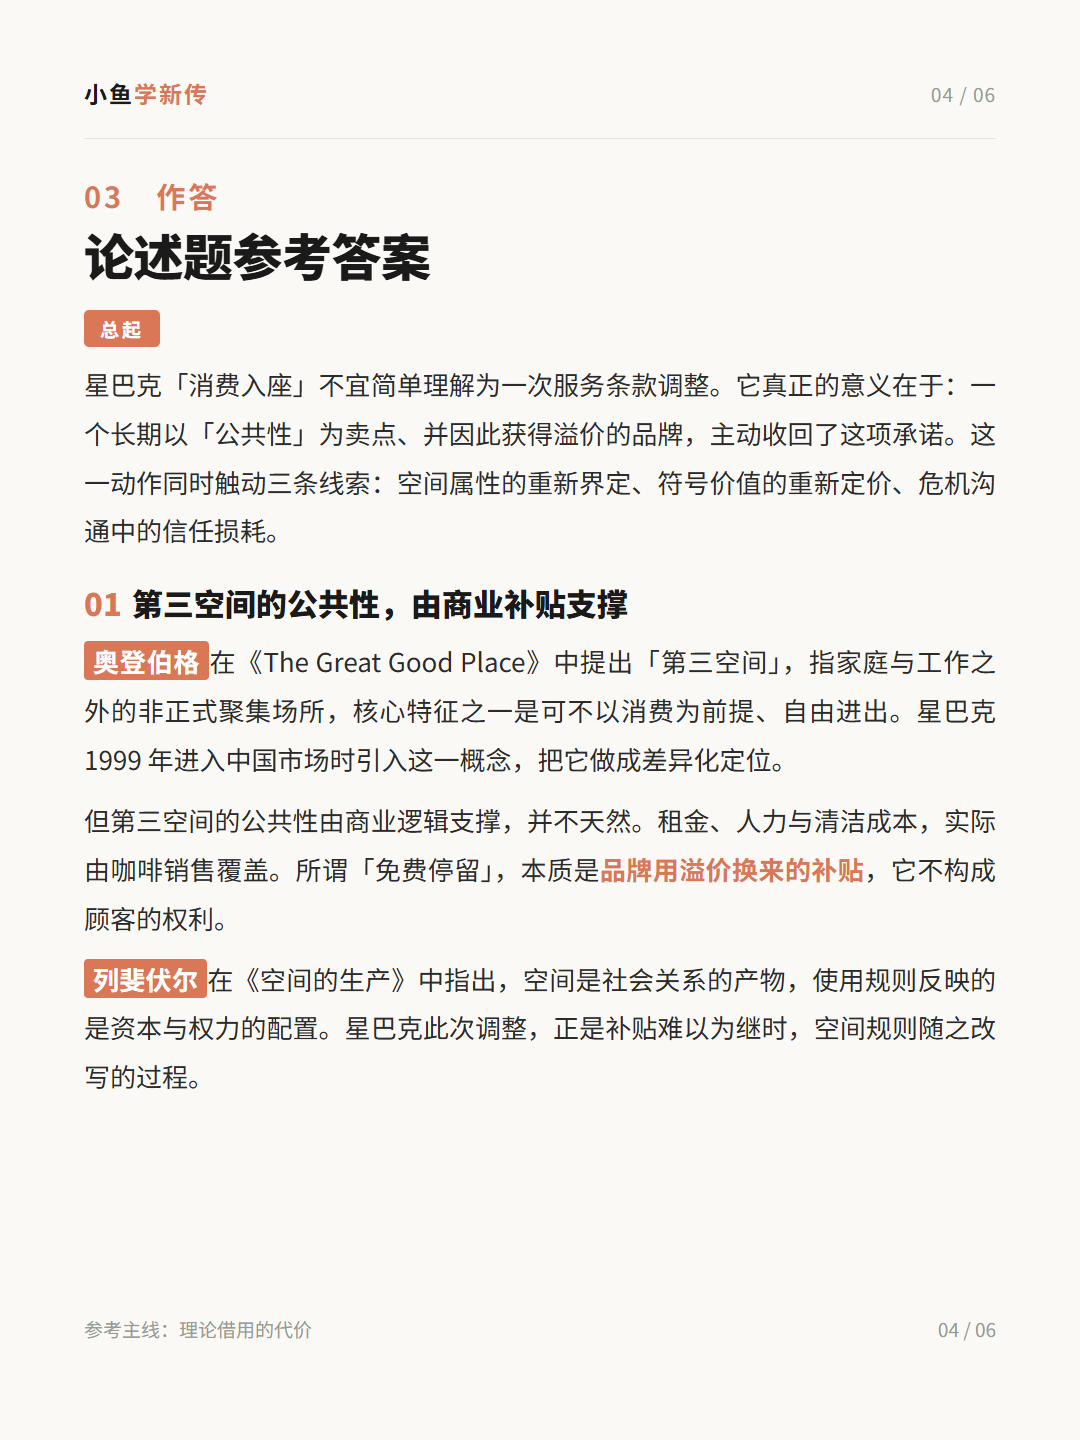
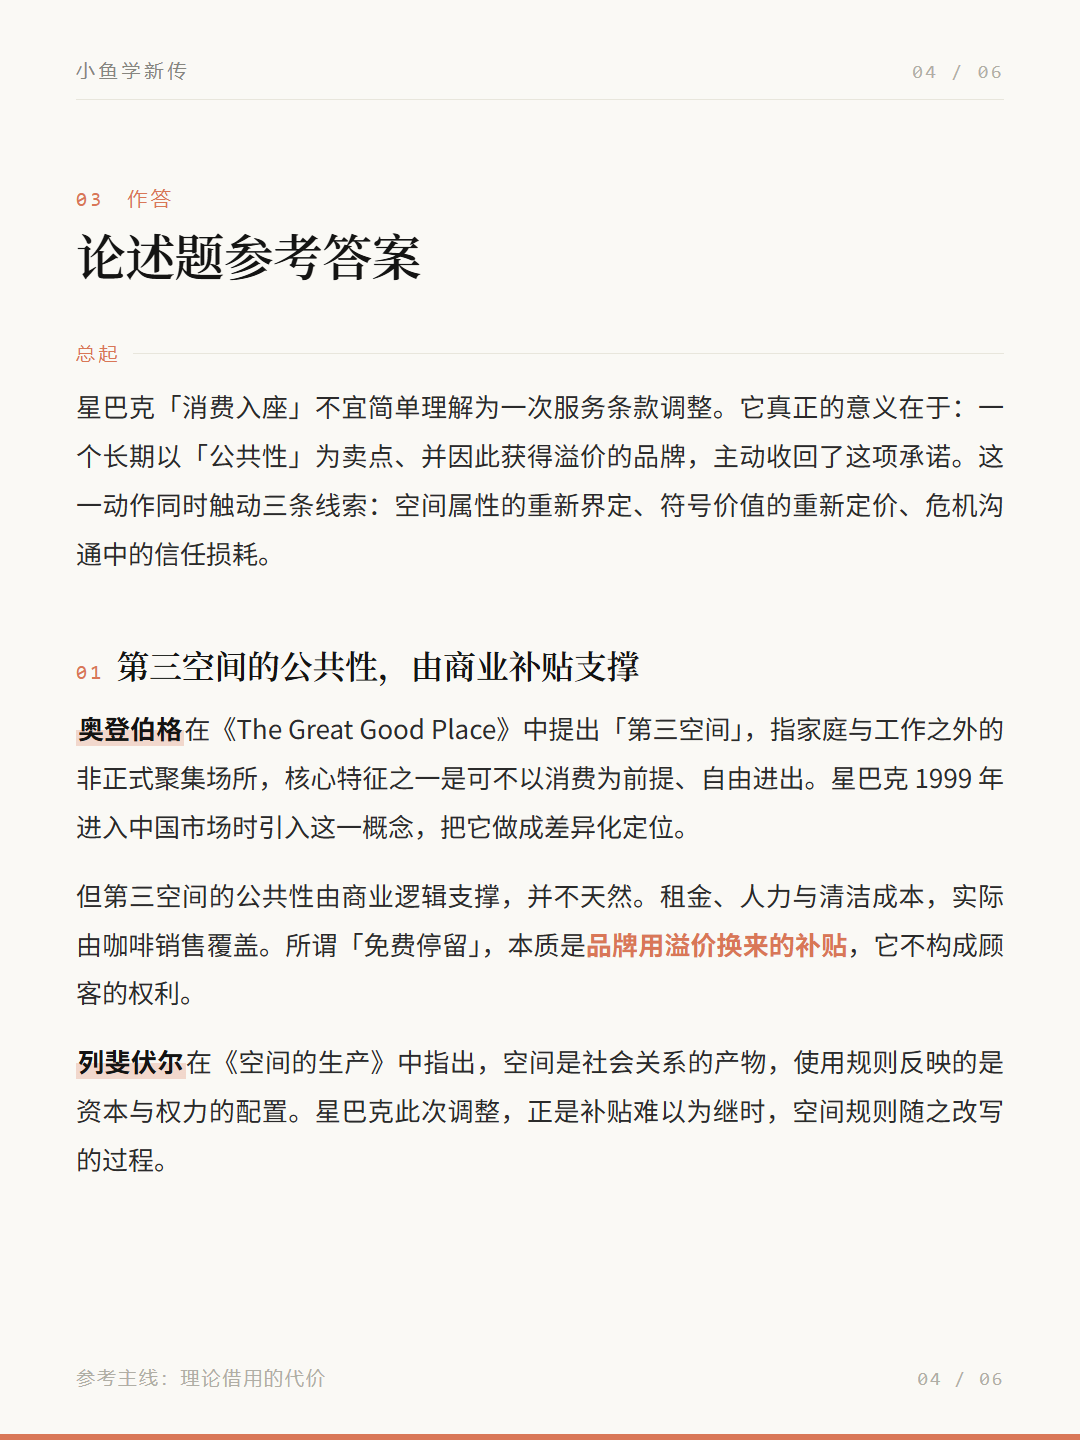
fix(图卡): 第 35 期六页字体体系统一，封面回到衬线版式
- 封面 v4：中文大字回衬线 600，恢复栏目副行，主钩子 156px 填满版心，
  下半页改用「本期拆成三层」索引收口（原空约 40%）
- 内页 P2—P6：标题与金句改衬线、刊头/页码/编号/日期/分值/标签/表格左列
  改等宽、正文仍黑体；珊瑚实底标签改等宽文字 + 发丝线，人名改记号笔
- 版心统一 58/76/46 + 六页底边 6px 珊瑚收条，修正封面 x=76 / 内页 x=84 的错位
- README 更正「栏目字号大于事件标题」的旧写法，新增字体体系一节

diff --git a/kb/新传热点事件解读/README.md b/kb/新传热点事件解读/README.md
@@ -58,6 +58,13 @@
 > **私人领域题材处理（编号 27 起）**：事件核心为家庭关系、亲密关系等私人领域内容时，frontmatter 下方同样加「写作基调」行，明确**不作道德裁决、不给当事人贴流行定性标签**（如「NPD 父母」「控制型母亲」「情感勒索」）；落点须放在**媒介装置与传播机制**上（如节目剪辑如何生产「真实」），不放在「该不该原谅」「谁对谁错」的价值判断上；「投放安全边界」须写明**两件事可以同时成立**（如「母女之间的隔阂是真实的，节目剪辑造成的误导也是真实的」），并禁止使用「塌房」「翻车」「打脸」等表述。
 > **道德灰区 + 口径缺口双重题材（编号 29，2026-10-03 祁连腾宿舍安置游客）**：当地方应急善意与第三方群体的程序权益**同时成立**、且官方口径回避了核心环节时，两条规范叠加使用。具体做法：① 善意与担当必须写到位（游客带老人小孩、零下4℃、通宵值守、局长一线铺床），只写质疑既刻薄也失真；② **不做「未经同意」的事实性断定**——公开报道无此确认、官方回应为「会沟通」，笔记只写「官方未提供事前告知的明确信息」，并列入待核项首位；③ **核查要主动找「结构性证据」**：本期最硬的一层是「宿舍启用本就写在应急预案之内」，它把「来不及告知」这个理由直接证伪，也是全部评论里差异度最高的一条；④ 剔除对一线人员的动机揣测（「作秀」「蹭流量」「慷他人之慨」），并保留官方原话的完整引述（如冯玲玲关于 2.3 万张床位与「储备地方也还有」的自述不可只截半句）；⑤ 落点放在**流程设计**上，不放在「该不该腾」的价值站队上。
 >
-> **图卡版式（2026-09-24 起）**：默认使用 **Anthropic 版**（暖米白底 `#faf9f5` + 赭橙强调 `#d97757`）。署名统一为「小鱼学新传」，**期号不出现在画面任何位置**；每张左上角均带署名（p1 为刊头，p2—p5 为导航条最左）；封面设栏目大标题「<月份>新传热点案例分析」（如「九月」「十月」），字号大于事件标题。编号 12—19、21 的历史图卡为早期绿版且无署名，如需统一须回炉重渲。
+> **图卡版式（2026-09-24 起）**：默认使用 **Anthropic 版**（暖米白底 `#faf9f5` + 赭橙强调 `#d97757`）。署名统一为「小鱼学新传」，**期号不出现在画面任何位置**；每张左上角均带署名（p1 为刊头，p2—p5 为导航条最左）；封面设栏目大标题「<月份>新传热点案例分析」（如「九月」「十月」），**字号小于事件标题**（栏目 62px、事件标题 104—156px；早期写法「栏目字号大于事件标题」与 34 期起的成品不符，已更正）。编号 12—19、21 的历史图卡为早期绿版且无署名，如需统一须回炉重渲。
 >
 > **答题导向体例（编号 35 起，2026-10-22 新增）**：用户可指定把「理论视角拆解」换成「直接给答案」，此时固定结构改为 **封面 → 事件简介（四节点时间线 + 官方口径）→ 考题怎么出（名词解释/简答/论述三档 + 为什么今年容易考）→ 论述题作答（总起 + 三个分论点 + 结语）→ 结语与速查表**，共 6 页。标题固定为「（具体事件）怎么考？」句式，作为「热点怎么答」系列的识别符，与编号 34 起适用的标题党规范并存。笔记正文的 `## 新传视角解析（N 个理论点）` 相应改为 `## 新传视角解析（3 个分论点）`，分论点按「理论层 → 消费层 → 传播层」推进。**强烈建议单独立系列发布**：答题干货类收藏/观看（编号 29 为 13.73%）显著高于热点案例，但曝光低，此体例正是用热点带曝光、用论述题框架换收藏。
+
+> **字体体系（编号 35 定稿，2026-10-22）**：一套三种声音，六页共用，不再出现黑体 900。
+> ① **衬线**（思源宋体 500/600，`fonts/NotoSerifSC-VF.ttf` 必须随包自带）——封面中文大字、页标题、分论点标题、命题卡标题、金句块、人名所在段落的小标题；
+> ② **等宽**（`ui-monospace`）——刊头、页码、章节编号（01/02/03）、日期、分值（5 分/30 分）、栏目标签（官方口径/答题提示）、表格左列；
+> ③ **黑体**（思源黑体 400）——正文、chips、提示块。
+> 版心统一 1080×1440、内边距 58/76/46，六页共用底边 6px 珊瑚收条。封面主钩子按 `928 ÷ 字数 ÷ 0.99` 定档（6 字 = 156px）以右端齐平版心；内页底部余量控制在 40—160px。
+> **教训**：系列图卡的一致性靠「信息行顺序 + 字体族」锁死，单张调好看不等于系列成立——第 35 期首版封面走黑体 900、删掉栏目副行，单看更"炸"，放进 12—34 期里是断代。

diff --git a/kb/wiki/log.md b/kb/wiki/log.md
@@ -1168,3 +1168,29 @@ PDF 用 venv 内 pypdf 6.16.2 提取，落盘 `_p14_j.txt`（第十四讲）与 
 - 第三讲讲义缺失，拿到后补归档并入库索引。
 - 「新传知识」下的新闻理论／传播理论／网络传播三个子目录仍为预留，未建立。
 
+
+## [2026-10-22] fix | 第 35 期图卡字体体系统一（封面重排 + 内页衬线化）
+
+**1. 起因**
+用户对第 35 期「星巴克消费入座」封面提出「优化封面，参考设计原则，和之前的封面要求保持一致，字体、布局等等」，随后追加「剩下的五张字体也统一下」。核对 12—34 期成品后发现：该期首版封面把中文大字从衬线改成**黑体 900 / 156px**、删掉了栏目副行「事件回顾 · 关键词 · …」，单看更"炸"，放进系列里是**断代**。
+
+**2. 封面改版（v4）**
+- 中文大字回到**衬线 600**，自带 `fonts/NotoSerifSC-VF.ttf`（系统 `Noto Serif SC` 不保证暴露 600 一族）。
+- 恢复系列的五段信息行顺序：刊头 → 栏目大标题 62 → 栏目副行 22 → 胶囊 → 事件标题 → 导语 → 短横 → chips → 索引 → hint → 页脚。
+- 主钩子改为**填满版心**：`字号 = 928 ÷ 字数 ÷ 0.99`，6 字取 156px，墨迹实测 927px，右端与版心齐平（原 138px 时右端空 179px，第一眼看到的是"没排满"）。
+- 补一句导语（衬线 32px）：「一个卖了 27 年的「第三空间」，一张桌牌就收回了。」
+- 下半页原空约 40%，改用**「本期拆成三层」索引**收口（等宽珊瑚序号 + 衬线层名 + 灰色说明），留白落入标题块与索引块之间 105px，不再堆在页脚上方。
+
+**3. 内页统一（P2—P6）**
+三种声音：衬线 600 管标题与金句、等宽管刊头/页码/编号/日期/分值/标签/表格左列、黑体 400 管正文。
+- `.h2` 56 / `.stitle` 33 / `.qt` 30 / `.quote` 28 / `.signcard` 28 全部改衬线，负字距 −.01～−.015em。
+- `.slabel`（总起等）由**珊瑚实底 + 白字**改为**等宽珊瑚文字 + 右侧发丝线**，与封面「本期拆成三层」同一语言；页面上不再有 4 处以上珊瑚铺面。
+- `.em1`（理论家人名）由珊瑚实底块改为系列 34 期同款「记号笔」：墨色文字 + 压在下 44% 的珊瑚笔迹（`linear-gradient(rgba(217,119,87,.26))`）。
+- chips 由浅珊瑚底改为**描边无底**、999px 胶囊，与封面一致。
+- 版心内边距由 76/84/96 改为 **58/76/46**，六页共用底边 6px 珊瑚收条；此前封面 x=76、内页 x=84，滑动时左边缘跳动。
+- 释放出的高度不动字号、只动间距：首呼吸位抬到 64—88px，内页底部余量由 260／282px 收到 **194／129／156／37／145px**。
+
+**4. 同步**
+- `images/35-星巴克消费入座-01~06.png` 全量替换（6 张，1080×1440）。
+- `README.md`：更正「栏目字号大于事件标题」这条与成品不符的旧写法（实际栏目 62 < 事件 104—156），新增「字体体系（编号 35 定稿）」段。
+- 旧封面备份留在工作目录 `_archive/cards-封面v3-黑体版.html`；设计规范用户级 skill `xiaohuang-hotspot-case/DESIGN.md` 升 v2.12。
